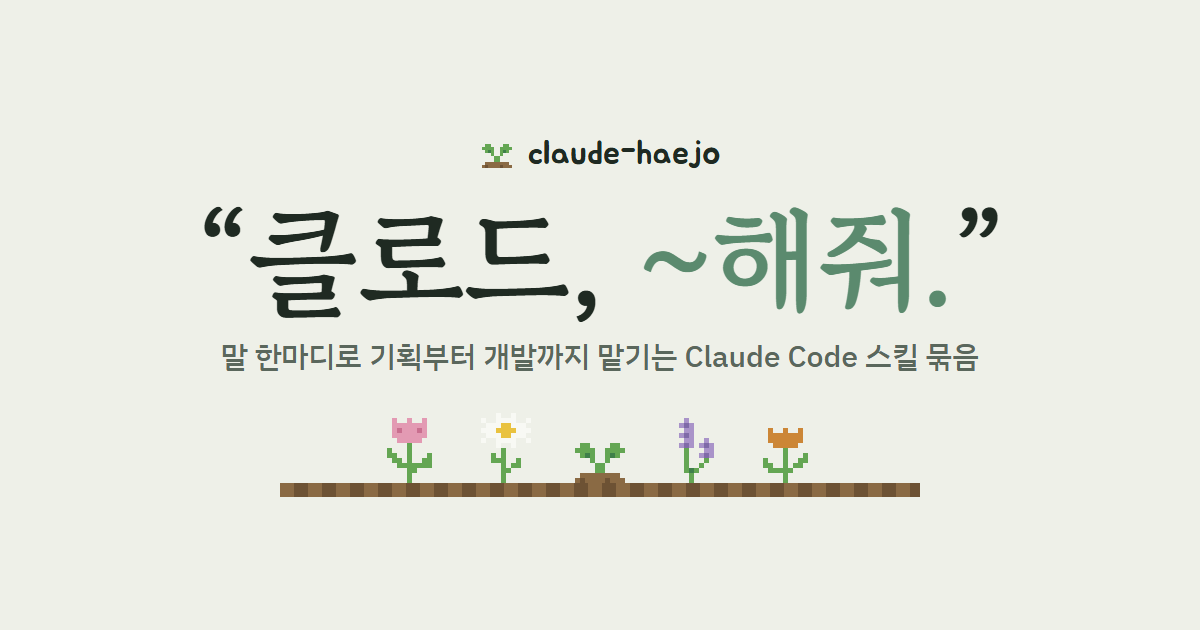
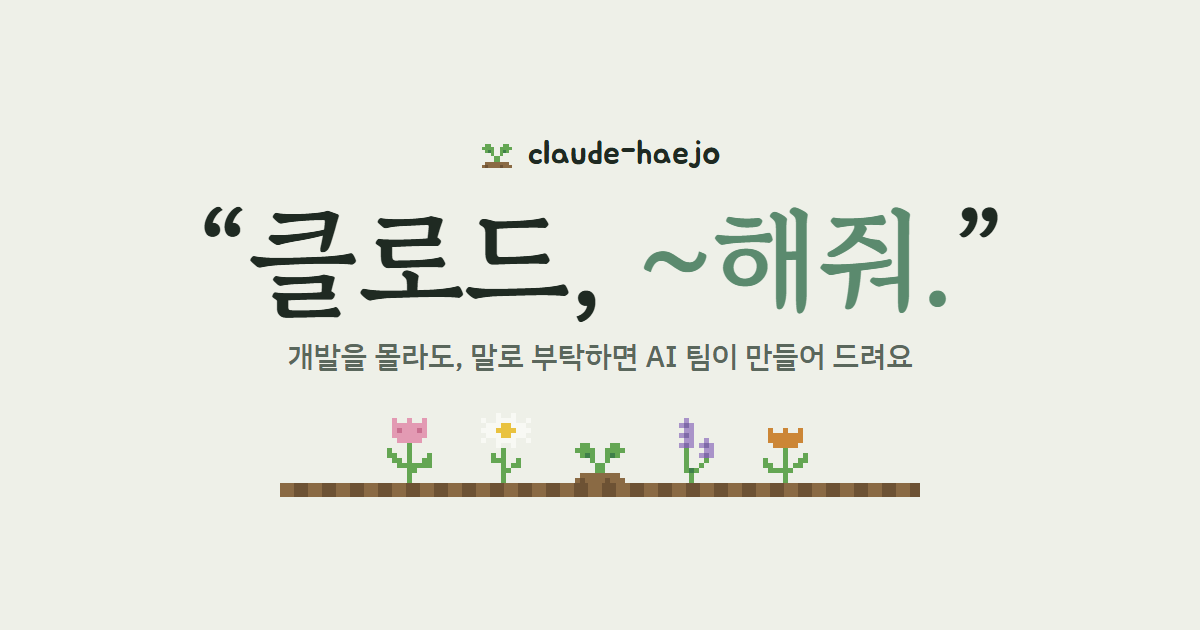
소개 사이트를 일반인 눈높이로 다시 씀 (#15)
- 개발 용어를 사장님·팀장·팀원·결재 비유로 바꿈
- 첫 화면에 누구를 위한 건지 한 줄 설명, 바로 시작하기 단추
- 시작하기에 준비물(Claude Code)과 세 걸음, 개발자용 명령은 탭으로
- 링크 미리보기 그림 문구도 같은 말로

Changed region(s): [[0.185, 0.5429, 0.8325, 0.6032]]

diff --git a/docs/index.html b/docs/index.html
@@ -4,9 +4,9 @@
 <meta charset="utf-8">
 <meta name="viewport" content="width=device-width, initial-scale=1">
 <title>claude-haejo — 클로드, ~해줘.</title>
-<meta name="description" content="말 한마디로 기획부터 개발까지 맡기는 Claude Code 스킬 묶음">
+<meta name="description" content="개발을 몰라도, 말로 부탁하면 AI 팀이 계획부터 완성까지 해 드려요">
 <meta property="og:title" content="claude-haejo — 클로드, ~해줘.">
-<meta property="og:description" content="말 한마디로 기획부터 개발까지 맡기는 Claude Code 스킬 묶음">
+<meta property="og:description" content="개발을 몰라도, 말로 부탁하면 AI 팀이 계획부터 완성까지 해 드려요">
 <meta property="og:image" content="https://ff-1204.github.io/claude-haejo/og.png">
 <meta property="og:image:width" content="1200">
 <meta property="og:image:height" content="630">
@@ -173,6 +173,15 @@ footer a { color: var(--muted); }
   .step code { font-size: 13px; }
 }
 @media (prefers-reduced-motion: reduce) { html { scroll-behavior: auto; } .typing .caret { animation: none; } }
+
+.hero .lead { color: var(--muted); font-size: clamp(16px, 2.2vw, 19px); line-height: 1.7; margin: 18px auto 0; max-width: 620px; }
+.btns { display: flex; justify-content: center; flex-wrap: wrap; gap: 10px; margin-top: 36px; }
+.btns a { text-decoration: none; border: 1px solid var(--line); background: var(--panel); color: var(--ink); border-radius: 999px; padding: 11px 22px; font-weight: 600; font-size: 15.5px; }
+.btns a.main { background: var(--accent); color: var(--accent-ink); border-color: var(--accent); }
+.need { max-width: 720px; margin: 32px auto 0; text-align: left; background: var(--panel); border: 1px solid var(--line); border-left: 6px solid var(--summer); border-radius: var(--r); padding: 16px 20px; }
+.need b { font-family: var(--display); font-size: 19px; }
+.need p { color: var(--muted); font-size: 15px; margin-top: 2px; }
+.cta .install { margin-top: 18px; }
 </style>
 </head>
 <body>
@@ -181,8 +190,9 @@ footer a { color: var(--muted); }
   <div class="wrap">
     <a class="brand" href="#top"><span data-pix="sprout" data-s="2"></span>claude-haejo</a>
     <nav>
-      <a class="hide-s" href="#team">팀처럼</a>
-      <a class="hide-s" href="#checks">확인</a>
+      <a class="hide-s" href="#how">어떻게</a>
+      <a class="hide-s" href="#safe">안심</a>
+      <a class="hide-s" href="#start">시작하기</a>
       <a href="https://github.com/ff-1204/claude-haejo#readme">EN</a>
       <a href="https://github.com/ff-1204/claude-haejo/blob/main/README.ja.md">JA</a>
       <a class="gh" href="https://github.com/ff-1204/claude-haejo">GitHub</a>
@@ -194,9 +204,10 @@ footer a { color: var(--muted); }
 
 <section class="hero">
   <div class="wrap">
-    <span class="chip"><i></i>Claude Code 스킬 묶음</span>
+    <span class="chip"><i></i>AI 개발 도우미 Claude Code에 더하는 기능</span>
     <h1>“클로드,<br><em>~해줘.</em>”</h1>
     <p class="typing" aria-live="polite"><b id="typed">처음부터 기획해줘</b><span class="caret"></span></p>
+    <p class="lead">만들고 싶은 앱이나 게임이 있는데 개발은 모르시나요?<br>말로 부탁하면, AI가 작은 팀을 꾸려 계획부터 완성까지 해 드려요.</p>
     <div class="flowerbed" aria-hidden="true">
       <span data-pix="tulip" data-s="5"></span>
       <span data-pix="daisy" data-s="6"></span>
@@ -205,36 +216,24 @@ footer a { color: var(--muted); }
       <span data-pix="tulip2" data-s="5"></span>
     </div>
     <div class="soil" aria-hidden="true"></div>
-
-    <div class="install" id="install">
-      <div class="tabs" role="tablist">
-        <button role="tab" aria-selected="true" data-tab="say">말로 하기</button>
-        <button role="tab" aria-selected="false" data-tab="cmd">명령어로</button>
-      </div>
-      <div class="panel" data-panel="say">
-        <div class="step say"><span class="n">1</span><code>https://github.com/ff-1204/claude-haejo 를 받아서 설치해줘</code><button class="copy">복사</button></div>
-        <div class="step"><span class="n">2</span><span class="note">새 Claude Code 세션을 열고, 프로젝트 폴더에서 <b>“처음부터 기획해줘”</b></span></div>
-      </div>
-      <div class="panel" data-panel="cmd" hidden>
-        <div class="step"><span class="n">1</span><code>git clone https://github.com/ff-1204/claude-haejo.git && cd claude-haejo</code><button class="copy">복사</button></div>
-        <div class="step"><span class="n">2</span><code>./install.sh</code><button class="copy">복사</button></div>
-      </div>
-      <p class="after">Claude Code 창에 붙여 넣으면 끝. <b>새 세션부터</b> 적용돼요.</p>
+    <div class="btns">
+      <a class="main" href="#how">어떻게 하는지 보기</a>
+      <a href="#start">바로 시작하기</a>
     </div>
   </div>
 </section>
 
 <section class="worries">
   <div class="wrap">
-    <p class="eyebrow">혼자 만들 때</p>
-    <h2 class="sec-title">이런 고민,<br>클로드가 대신 챙겨요.</h2>
+    <p class="eyebrow">이런 분께</p>
+    <h2 class="sec-title">코딩을 몰라도<br>괜찮아요.</h2>
     <div class="talk">
-      <div class="pair"><p class="bubble q">“무엇부터 만들어야 할지 모르겠어요…”</p><p class="bubble a">사람에서 순서를 정해요.</p></div>
-      <div class="pair"><p class="bubble q">“AI가 다 했다는데 믿어도 될까요…”</p><p class="bubble a">팀장이 네 가지를 직접 확인해요.</p></div>
-      <div class="pair"><p class="bubble q">“일이 많아지면 서로 꼬여요…”</p><p class="bubble a">일마다 팀원 한 명, 가지 하나.</p></div>
-      <div class="pair"><p class="bubble q">“커밋, PR… 뭔지 잘 몰라요.”</p><p class="bubble a">몰라도 돼요. 버튼만 고르세요.</p></div>
-      <div class="pair"><p class="bubble q">“자다가 깨면 어디까지 했는지 몰라요.”</p><p class="bubble a">아침에 정할 것만 모아 둬요.</p></div>
-      <div class="pair"><p class="bubble q">“휴대폰으로만 볼 때가 많아요.”</p><p class="bubble a">보고는 짧게, 선택지는 번호로.</p></div>
+      <div class="pair"><p class="bubble q">“아이디어는 있는데, 코딩은 하나도 몰라요.”</p><p class="bubble a">말로만 하세요. 나머지는 AI 팀이 해요.</p></div>
+      <div class="pair"><p class="bubble q">“AI가 ‘다 했어요’ 하는데 진짜인지 모르겠어요.”</p><p class="bubble a">팀장 AI가 한 번 더 검사해요.</p></div>
+      <div class="pair"><p class="bubble q">“뭐부터 만들어야 할지 막막해요.”</p><p class="bubble a">쓸 사람 입장에서 순서를 정해 드려요.</p></div>
+      <div class="pair"><p class="bubble q">“어려운 용어가 나오면 겁나요.”</p><p class="bubble a">버튼으로 ‘예’, ‘아니요’만 고르면 돼요.</p></div>
+      <div class="pair"><p class="bubble q">“밤새 맡겨 두고 자고 싶어요.”</p><p class="bubble a">아침에 정할 것만 모아 둘게요.</p></div>
+      <div class="pair"><p class="bubble q">“휴대폰으로만 확인할 때가 많아요.”</p><p class="bubble a">보고는 짧게, 고를 건 번호로 드려요.</p></div>
     </div>
   </div>
 </section>
@@ -242,79 +241,79 @@ footer a { color: var(--muted); }
 <section>
   <div class="wrap">
     <p class="eyebrow">하는 일</p>
-    <h2 class="sec-title">말은 한 줄, 일은 끝까지.</h2>
+    <h2 class="sec-title">부탁은 한 줄,<br>일은 끝까지.</h2>
     <div class="cards">
-      <div class="card"><div class="ico"><span data-pix="seed" data-s="4"></span></div><h3>기획</h3><span class="say">“처음부터 기획해줘”</span><p>가상의 사용자 다섯 명의 하루에서 필요한 기능을 뽑고, 개발 단계표(마일스톤)까지 문서로 만들어요.</p></div>
-      <div class="card"><div class="ico"><span data-pix="sprout" data-s="4"></span></div><h3>개발 맡기기</h3><span class="say">“M2 진행해줘”</span><p>일을 팀원(하위 세션)에게 하나씩 나눠 맡기고, 결과를 직접 확인한 뒤 보고해요.</p></div>
-      <div class="card"><div class="ico"><span data-pix="daisy" data-s="4"></span></div><h3>정할 것만 묻기</h3><span class="say">선택 버튼</span><p>과정은 클로드가 정해요. 취향·돈·되돌리기 어려운 일만 버튼으로 물어요.</p></div>
+      <div class="card"><div class="ico"><span data-pix="seed" data-s="4"></span></div><h3>계획 세우기</h3><span class="say">“처음부터 기획해줘”</span><p>이걸 쓸 사람 다섯 명을 상상하고 그 사람들의 하루를 그려 봐요. 그러면 꼭 필요한 기능과 만들 순서가 나와요.</p></div>
+      <div class="card"><div class="ico"><span data-pix="sprout" data-s="4"></span></div><h3>나눠서 만들기</h3><span class="say">“로드맵대로 개발해줘”</span><p>할 일을 잘게 나눠 AI 팀원 여럿에게 맡겨요. 동시에 일해도 서로 꼬이지 않아요.</p></div>
+      <div class="card"><div class="ico"><span data-pix="daisy" data-s="4"></span></div><h3>중요한 것만 묻기</h3><span class="say">선택 버튼</span><p>나머지는 AI가 알아서 정해요. 디자인 취향, 돈 드는 일, 되돌리기 어려운 일만 버튼으로 물어봐요.</p></div>
     </div>
   </div>
 </section>
 
-<section class="team" id="team">
+<section class="team" id="how">
   <div class="wrap">
-    <p class="eyebrow">팀처럼 일해요</p>
-    <h2 class="sec-title">회사로 비유하면 쉬워요.</h2>
-    <p class="sec-lead">사장님은 당신. 클로드가 팀을 꾸려 일하고, 결재만 올려요.</p>
+    <p class="eyebrow">어떻게 일하나요</p>
+    <h2 class="sec-title">작은 회사처럼 일해요.</h2>
+    <p class="sec-lead">당신은 사장님. AI가 팀장과 팀원이 되어 일하고, 사장님께는 결재만 올려요.</p>
     <div class="roles">
-      <div class="role"><small>부모 세션</small><h3>팀장</h3><p>일을 나눠 주고, 결과를 확인하고, 보고해요.</p></div>
-      <div class="role"><small>하위 세션</small><h3>팀원</h3><p>일 하나를 처음부터 끝까지 맡아요.</p></div>
-      <div class="role"><small>PR</small><h3>결재 서류</h3><p>“이렇게 바꿨는데 합쳐도 될까요?”</p></div>
-      <div class="role"><small>머지</small><h3>결재 승인</h3><p>바뀐 내용을 본 줄기(main)에 합쳐요.</p></div>
+      <div class="role"><small>당신</small><h3>사장님</h3><p>원하는 걸 말하고, 결재만 해요.</p></div>
+      <div class="role"><small>지금 대화하는 AI</small><h3>팀장</h3><p>일을 나눠 주고, 결과를 검사하고, 보고해요.</p></div>
+      <div class="role"><small>따로 일하는 AI 여럿</small><h3>팀원</h3><p>맡은 일 하나를 처음부터 끝까지 해요.</p></div>
+      <div class="role"><small>팀원이 올리는 것</small><h3>결재 서류</h3><p>“이렇게 만들었는데 반영할까요?”</p></div>
     </div>
     <ol class="path">
-      <li class="you"><p>“M2 진행해줘”<span>당신</span></p></li>
-      <li><p>권한을 버튼으로 묻기<span>팀장</span></p></li>
-      <li><p>일마다 팀원 한 명<span>팀장</span></p></li>
-      <li><p>자기 가지에서 만들고 테스트<span>팀원</span></p></li>
-      <li><p>결재 서류(PR) 올리기<span>팀원</span></p></li>
-      <li><p>네 가지 확인, 걸리면 다시<span>팀장</span></p></li>
-      <li><p>“머지할까요?”<span>팀장</span></p></li>
-      <li class="you"><p>“예” → 합치고 정리<span>당신</span></p></li>
+      <li class="you"><p>“로드맵대로 개발해줘”<span>사장님</span></p></li>
+      <li><p>어디까지 맡길지 버튼으로 묻기<span>팀장</span></p></li>
+      <li><p>할 일마다 팀원 한 명씩<span>팀장</span></p></li>
+      <li><p>각자 따로 만들고 시험해 보기<span>팀원</span></p></li>
+      <li><p>결재 서류 올리기<span>팀원</span></p></li>
+      <li><p>네 가지 검사, 부족하면 다시<span>팀장</span></p></li>
+      <li><p>“반영할까요?”<span>팀장</span></p></li>
+      <li class="you"><p>“예” → 완성본에 반영<span>사장님</span></p></li>
     </ol>
   </div>
 </section>
 
-<section id="checks">
+<section id="safe">
   <div class="wrap">
-    <p class="eyebrow">보고만 믿지 않아요</p>
-    <h2 class="sec-title">다 통과해야<br>“머지할까요?”가 와요.</h2>
+    <p class="eyebrow">안심하고 맡기세요</p>
+    <h2 class="sec-title">AI 말만 믿지 않아요.<br>검사를 다 통과해야 결재가 와요.</h2>
     <div class="checks-grid">
       <div class="four">
-        <div><span class="ok">✓ 통과</span><b>요약</b><p>바꾼 것·확인한 것·남은 것이 다 적혔나</p></div>
-        <div><span class="ok">✓ 통과</span><b>테스트</b><p>팀장이 직접 한 번 더 돌려 보나</p></div>
-        <div><span class="ok">✓ 통과</span><b>범위</b><p>맡긴 일 밖을 건드리지 않았나</p></div>
-        <div><span class="ok">✓ 통과</span><b>충돌</b><p>다른 일과 부딪히지 않나</p></div>
+        <div><span class="ok">✓ 통과</span><b>설명</b><p>무엇을 바꿨고 무엇이 남았는지 다 적었나</p></div>
+        <div><span class="ok">✓ 통과</span><b>시험</b><p>팀장이 직접 한 번 더 돌려 봤나</p></div>
+        <div><span class="ok">✓ 통과</span><b>범위</b><p>시키지 않은 곳을 건드리지 않았나</p></div>
+        <div><span class="ok">✓ 통과</span><b>충돌</b><p>다른 팀원의 작업과 부딪히지 않나</p></div>
       </div>
-      <div class="report" aria-label="머지할까요 보고 예시">
+      <div class="report" aria-label="결재 보고 예시">
         <div class="bar"><i></i><i></i><i></i></div>
-        <p><b>무엇</b>PR #9 — 머지 방식을 squash로</p>
-        <p><b>확인</b>요약 ✓ · 테스트 ✓ · 범위 ✓ · 충돌 없음</p>
-        <p><b>못 한 것</b>실제 사용은 새 세션에서</p>
-        <p><b>머지하면</b>이 PC에 설치</p>
+        <p><b>무엇</b>로그인 화면 만들기</p>
+        <p><b>검사</b>설명 ✓ · 시험 ✓ · 범위 ✓ · 충돌 없음</p>
+        <p><b>못 한 것</b>휴대폰에서 직접 눌러 보기</p>
+        <p><b>반영하면</b>사이트에 바로 보여요</p>
         <hr>
-        <ol><li class="pick">머지하고 정리 (추천)</li><li>머지만</li><li>아직 안 함</li></ol>
+        <ol><li class="pick">반영하고 정리 (추천)</li><li>반영만</li><li>아직 안 함</li></ol>
       </div>
     </div>
-    <p class="sec-lead">합칠 때는 결과만 적은 기록 하나로 깔끔하게 남겨요(squash).</p>
+    <p class="sec-lead">결재는 이렇게 짧게 와요. 사장님은 번호 하나만 고르면 돼요.</p>
   </div>
 </section>
 
 <section style="background: var(--panel); border-top: 1px solid var(--line); border-bottom: 1px solid var(--line);">
   <div class="wrap">
-    <p class="eyebrow">기획 흐름</p>
+    <p class="eyebrow">계획 세우는 법</p>
     <h2 class="sec-title">씨앗에서 꽃까지, 일곱 걸음.</h2>
-    <p class="sec-lead">기능 목록이 아니라 사람에서 시작해요. 여러 사람에게 필요한 기능부터 만들어요.</p>
+    <p class="sec-lead">기능 목록부터 쓰지 않아요. ‘누가, 어떤 하루에 쓸까’에서 시작해요.</p>
     <div class="seasons">
-      <div class="season" style="--c: var(--seed)"><small>1</small><h3>핵심 경험</h3><p>사용자가 하는 일 3~6개</p></div>
-      <div class="season" style="--c: var(--spring)"><small>2</small><h3>페르소나</h3><p>가상의 사용자 5명</p></div>
-      <div class="season" style="--c: var(--spring)"><small>3</small><h3>하루 장면</h3><p>한 사람의 하루 5~8단계</p></div>
-      <div class="season" style="--c: var(--summer)"><small>4</small><h3>기능 잇기</h3><p>장면마다 필요한 기능</p></div>
-      <div class="season" style="--c: var(--summer)"><small>5</small><h3>점수</h3><p>많이 필요할수록 높게</p></div>
-      <div class="season" style="--c: var(--autumn)"><small>6</small><h3>개발 순서</h3><p>점수 순서를 다듬기</p></div>
-      <div class="season" style="--c: var(--winter)"><small>7</small><h3>마일스톤</h3><p>개발 단계 M1, M2…</p></div>
+      <div class="season" style="--c: var(--seed)"><small>1</small><h3>핵심 정하기</h3><p>사람들이 이걸로 할 일 3~6가지</p></div>
+      <div class="season" style="--c: var(--spring)"><small>2</small><h3>쓸 사람 상상</h3><p>가상의 사용자 다섯 명</p></div>
+      <div class="season" style="--c: var(--spring)"><small>3</small><h3>하루 그려 보기</h3><p>그 사람의 하루를 장면으로</p></div>
+      <div class="season" style="--c: var(--summer)"><small>4</small><h3>필요한 것 찾기</h3><p>장면마다 필요한 기능</p></div>
+      <div class="season" style="--c: var(--summer)"><small>5</small><h3>점수 매기기</h3><p>많은 사람에게 필요할수록 높게</p></div>
+      <div class="season" style="--c: var(--autumn)"><small>6</small><h3>순서 정하기</h3><p>점수 높은 것부터</p></div>
+      <div class="season" style="--c: var(--winter)"><small>7</small><h3>단계 나누기</h3><p>1단계, 2단계… 계획표 완성</p></div>
     </div>
-    <p class="formula">점수 = <code>필요한 사람 수 × 2 + 나온 장면 수</code> · 눈대중이 아니라 프로그램(<code>score.js</code>)이 세요.</p>
+    <p class="formula">점수는 AI가 눈대중하지 않고 계산기처럼 셉니다. 그래서 몇 번을 해도 같은 답이 나와요.</p>
   </div>
 </section>
 
@@ -323,11 +322,11 @@ footer a { color: var(--muted); }
     <p class="eyebrow">이렇게 말하세요</p>
     <h2 class="sec-title">명령어는 외우지 않아도 돼요.</h2>
     <div class="says">
-      <div><code>“처음부터 기획해줘”</code><span>핵심 경험을 확인받고, 페르소나부터 마일스톤까지 써요.</span></div>
-      <div><code>“페르소나 하나 더 추가해줘”</code><span>그 사람을 더하고, 뒤 문서에서 바뀐 곳만 고쳐요.</span></div>
-      <div><code>“M2 진행해줘”</code><span>남은 일을 팀원에게 나눠 맡기고, 확인 뒤 머지할지 물어요.</span></div>
-      <div><code>“자러 갈게”</code><span>떠나기 전 권한만 묻고 계속해요. 아침에 정할 것만 모아 둬요.</span></div>
-      <div><code>“로드맵 어디까지 왔어?”</code><span>끝난 수와 다음 할 일만 알려 줘요.</span></div>
+      <div><code>“처음부터 기획해줘”</code><span>무엇을 만들지 같이 정하고, 계획표까지 써 줘요.</span></div>
+      <div><code>“이런 사용자도 넣어줘: 주말에만 하는 직장인”</code><span>그 사람을 계획에 더하고, 달라지는 부분만 고쳐요.</span></div>
+      <div><code>“로드맵대로 개발해줘”</code><span>계획표에 남은 일을 팀원에게 나눠 맡기고, 끝나면 반영할지 물어요.</span></div>
+      <div><code>“자러 갈게”</code><span>떠나기 전에 한 번만 묻고 계속 일해요. 아침에 정할 것만 모아 둬요.</span></div>
+      <div><code>“로드맵 어디까지 왔어?”</code><span>끝난 일과 다음 할 일만 짧게 알려 줘요.</span></div>
     </div>
   </div>
 </section>
@@ -335,31 +334,45 @@ footer a { color: var(--muted); }
 <section style="padding-top: 24px;">
   <div class="wrap">
     <p class="eyebrow">꼭 묻는 것</p>
-    <h2 class="sec-title">기록으로 남는 일은<br>매번 당신에게 물어요.</h2>
-    <p class="sec-lead">“알아서 해줘”라고 해도, 시작할 때 버튼 하나로 어디까지 맡길지 골라요.</p>
+    <h2 class="sec-title">되돌리기 어려운 일은<br>꼭 사장님께 물어봐요.</h2>
+    <p class="sec-lead">“알아서 해줘”라고 해도, 처음 시작할 때 어디까지 맡길지 버튼 하나로 골라요.</p>
     <div class="words">
-      <div><b>커밋</b><p>바뀐 내용을 기록으로 남기기</p></div>
-      <div><b>push</b><p>그 기록을 GitHub에 올리기</p></div>
-      <div><b>PR</b><p>합쳐도 되는지 묻는 요청서</p></div>
-      <div><b>머지</b><p>본 줄기(main)에 합치기</p></div>
-      <div><b>태그</b><p>특정 시점의 이름표 (v1.0)</p></div>
+      <div><b>디자인·문구</b><p>보고 느끼는 건 사장님 취향대로</p></div>
+      <div><b>돈·계정</b><p>결제와 로그인은 사장님만</p></div>
+      <div><b>기록 남기기</b><p>만든 것을 저장해 두는 일</p></div>
+      <div><b>공개하기</b><p>인터넷 저장소에 올리는 일</p></div>
+      <div><b>반영하기</b><p>완성본에 합치는 일</p></div>
     </div>
-    <div class="options"><span class="rec">PR까지 맡기고 머지는 묻기 (추천)</span><span>이번만 머지까지</span><span>그때마다 묻기</span></div>
+    <div class="options"><span class="rec">결재 직전까지 맡기기 (추천)</span><span>이번만 반영까지</span><span>그때마다 묻기</span></div>
   </div>
 </section>
 
-<section class="cta">
+<section class="cta" id="start">
   <div class="wrap">
     <div class="flowerbed" aria-hidden="true" style="margin-bottom: 18px;">
       <span data-pix="daisy" data-s="4"></span><span data-pix="tulip" data-s="4"></span><span data-pix="lavender" data-s="4"></span>
     </div>
-    <h2>한 마디면 돼요.<br>나머지는 팀이 할게요.</h2>
-    <div class="install">
-      <div class="step say"><span class="n">1</span><code>https://github.com/ff-1204/claude-haejo 를 받아서 설치해줘</code><button class="copy">복사</button></div>
+    <h2>준비물은 하나,<br>말은 한 마디.</h2>
+    <div class="need"><b>준비물: Claude Code</b><p>Anthropic이 만든 AI 개발 도우미예요. 먼저 <a href="https://claude.com/claude-code">설치</a>해 주세요.</p></div>
+    <div class="install" id="install">
+      <div class="tabs" role="tablist">
+        <button role="tab" aria-selected="true" data-tab="say">말로 하기</button>
+        <button role="tab" aria-selected="false" data-tab="cmd">개발자라면</button>
+      </div>
+      <div class="panel" data-panel="say">
+        <div class="step say"><span class="n">1</span><code>https://github.com/ff-1204/claude-haejo 를 받아서 설치해줘</code><button class="copy">복사</button></div>
+        <div class="step"><span class="n">2</span><span class="note">Claude Code에서 새 대화를 열어요.</span></div>
+        <div class="step"><span class="n">3</span><span class="note">만들 것을 담을 폴더에서 <b>“처음부터 기획해줘”</b></span></div>
+      </div>
+      <div class="panel" data-panel="cmd" hidden>
+        <div class="step"><span class="n">1</span><code>git clone https://github.com/ff-1204/claude-haejo.git && cd claude-haejo</code><button class="copy">복사</button></div>
+        <div class="step"><span class="n">2</span><code>./install.sh</code><button class="copy">복사</button></div>
+      </div>
+      <p class="after">1번 문장을 Claude Code 창에 붙여 넣으면 알아서 설치해요.</p>
     </div>
     <div class="links">
       <a class="main" href="https://github.com/ff-1204/claude-haejo">GitHub에서 보기</a>
-      <a href="https://github.com/ff-1204/claude-haejo/blob/main/README.ko.md">한국어 README</a>
+      <a href="https://github.com/ff-1204/claude-haejo/blob/main/README.ko.md">자세한 설명 (README)</a>
     </div>
   </div>
 </section>
@@ -368,8 +381,8 @@ footer a { color: var(--muted); }
 
 <footer>
   <div class="wrap">
-    <span>claude-haejo · Claude Code 스킬 묶음</span>
-    <span>업데이트는 “claude-haejo 업데이트해줘” · <a href="https://github.com/ff-1204/claude-haejo">github.com/ff-1204/claude-haejo</a></span>
+    <span>claude-haejo · 말로 맡기는 AI 개발 팀</span>
+    <span>새 버전은 “claude-haejo 업데이트해줘” · <a href="https://github.com/ff-1204/claude-haejo">github.com/ff-1204/claude-haejo</a></span>
   </div>
 </footer>
 
@@ -392,7 +405,7 @@ footer a { color: var(--muted); }
   });
 
   // 첫 화면의 말 바꾸기
-  var says = ['처음부터 기획해줘', 'M2 진행해줘', '페르소나 하나 더 추가해줘', '자러 갈게', '로드맵 어디까지 왔어?'];
+  var says = ['처음부터 기획해줘', '로드맵대로 개발해줘', '이런 사용자도 넣어줘', '자러 갈게', '로드맵 어디까지 왔어?'];
   var el = document.getElementById('typed'), i = 0, n = says[0].length, del = false;
   if (!matchMedia('(prefers-reduced-motion: reduce)').matches) {
     (function tick() {
